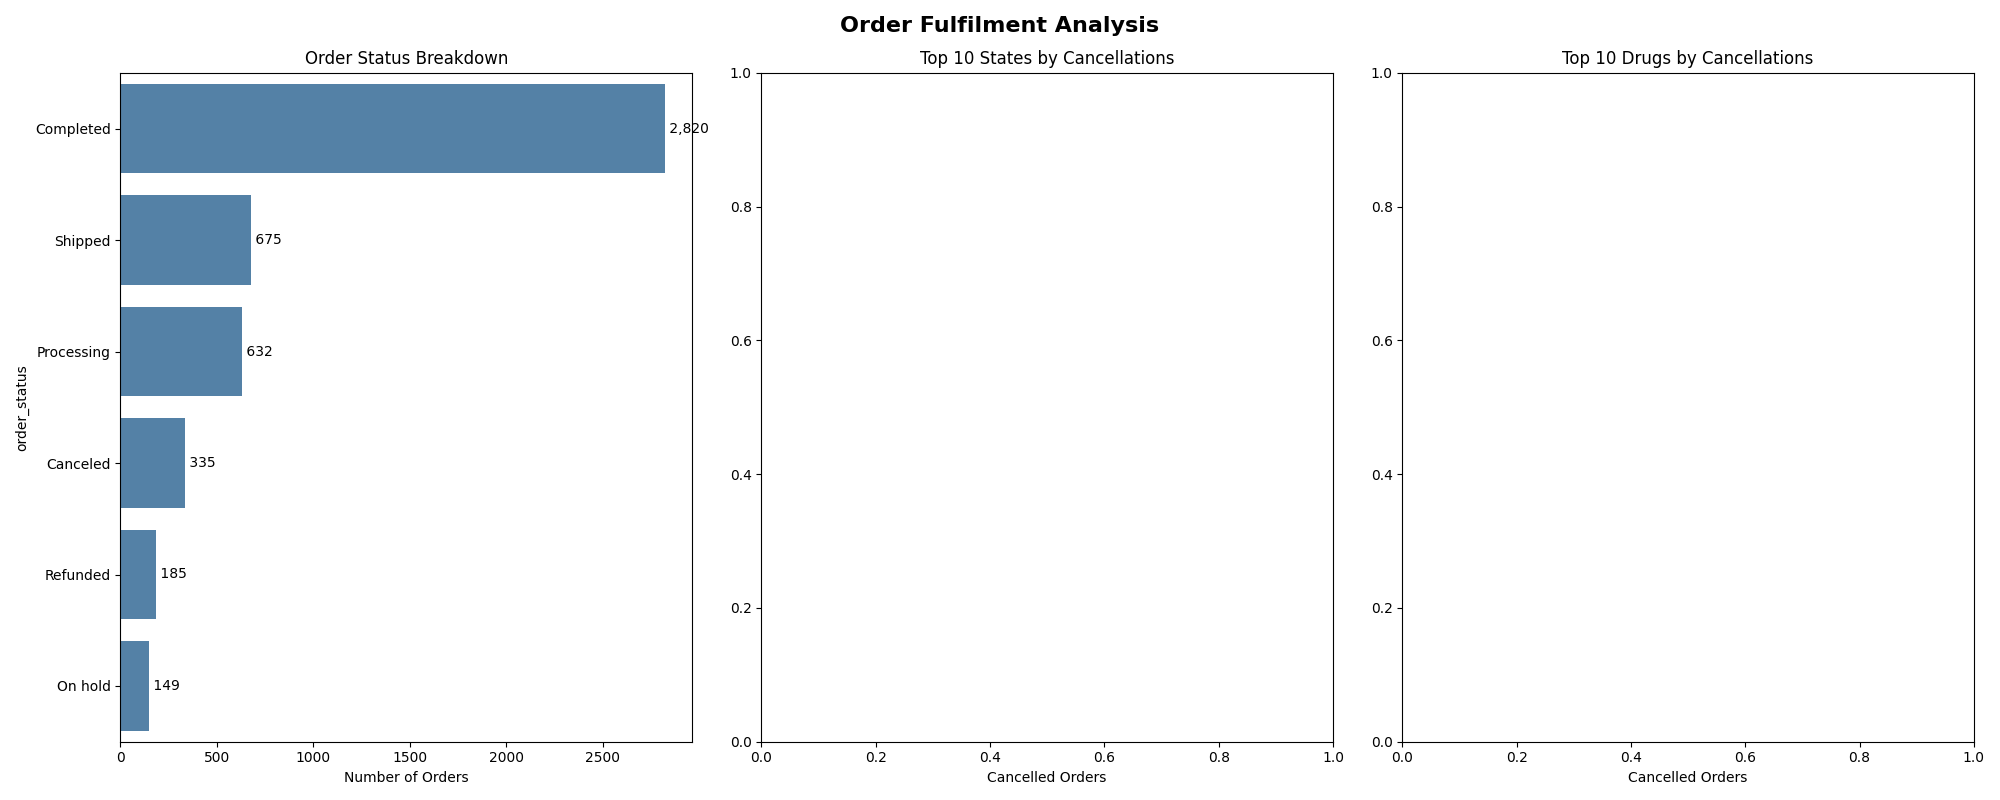
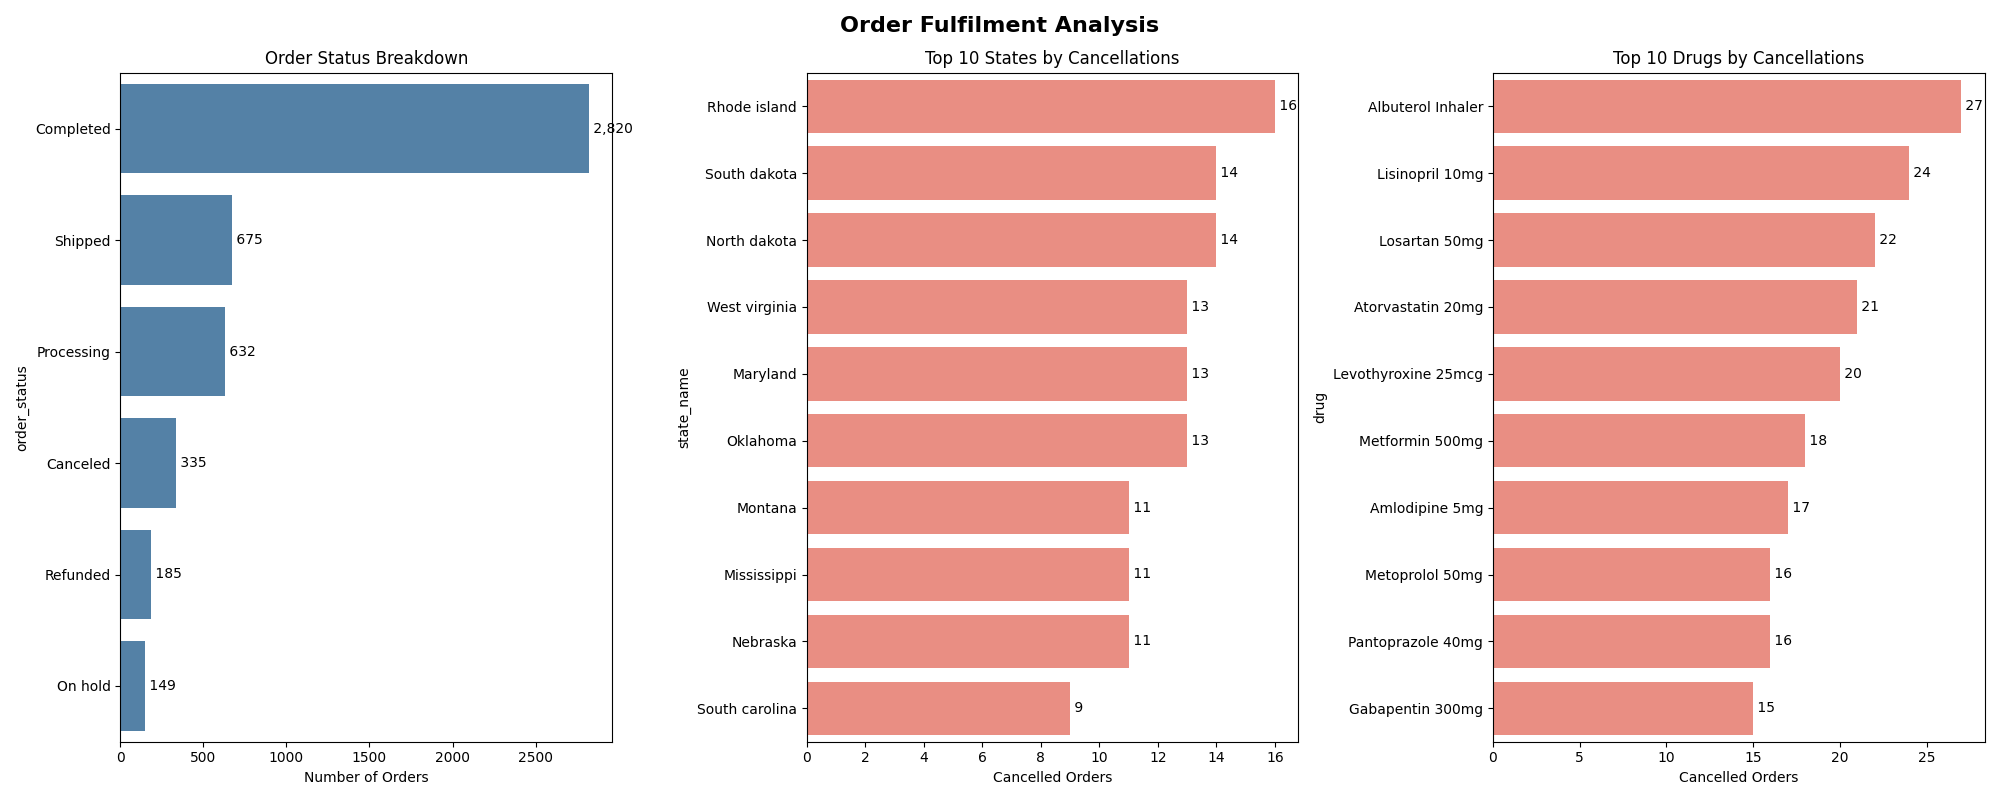
added readme

diff --git a/pharma_eda.py b/pharma_eda.py
@@ -7,7 +7,7 @@ import matplotlib.pyplot as plt
 import seaborn as sns
 
 # ── LOAD DATA ─────────────────────────────────────────────────────────
-combined = pd.read_csv('pharma_combined.csv')
+combined = pd.read_csv('cleandata/pharma_combined.csv')
 
 # Data prep
 combined['unit_price_usd'] = pd.to_numeric(combined['unit_price_usd'], errors='coerce')
@@ -180,23 +180,21 @@ plt.show()
 
 # ══════════════════════════════════════════════════════════════════════
 # 5. ORDER FULFILMENT ANALYSIS
-# Business question: Where are we losing orders?
+# Business question: Where are we losing orders and is there a pattern?
 # ══════════════════════════════════════════════════════════════════════
 
 status_counts = combined['order_status'].value_counts()
-cancel_rate   = combined[combined['order_status'] == 'Cancelled'].shape[0] / len(combined) * 100
-# shape[0] gives the row count of the filtered dataframe
+cancel_rate   = combined[combined['order_status'] == 'Canceled'].shape[0] / len(combined) * 100
 print(f"\n=== FULFILMENT SUMMARY ===")
 print(f"Cancellation Rate: {cancel_rate:.1f}%")
 
-# Cancellations by state — identifies if problem is regional
-cancel_by_state = combined[combined['order_status'] == 'Cancelled']\
+# Cancellations by state
+cancel_by_state = combined[combined['order_status'] == 'Canceled']\
     .groupby('state_name')['order_id'].count()\
     .sort_values(ascending=False).head(10)
-# The \ lets you continue code on the next line for readability
 
 # Cancellations by drug
-cancel_by_drug = combined[combined['order_status'] == 'Cancelled']\
+cancel_by_drug = combined[combined['order_status'] == 'Canceled']\
     .groupby('drug')['order_id'].count()\
     .sort_values(ascending=False).head(10)
 
@@ -211,11 +209,15 @@ ax1.set_xlabel('Number of Orders')
 
 # Cancellations by state
 sns.barplot(x=cancel_by_state.values, y=cancel_by_state.index, color='salmon', ax=ax2)
+for i, v in enumerate(cancel_by_state.values):
+    ax2.text(v, i, f' {v:,.0f}', va='center')
 ax2.set_title('Top 10 States by Cancellations')
 ax2.set_xlabel('Cancelled Orders')
 
 # Cancellations by drug
 sns.barplot(x=cancel_by_drug.values, y=cancel_by_drug.index, color='salmon', ax=ax3)
+for i, v in enumerate(cancel_by_drug.values):
+    ax3.text(v, i, f' {v:,.0f}', va='center')
 ax3.set_title('Top 10 Drugs by Cancellations')
 ax3.set_xlabel('Cancelled Orders')
 

diff --git a/readme.md b/readme.md
@@ -1,0 +1,178 @@
+# Pharma Sales Data Analysis
+
+## Project Overview
+This project simulates a real-world business analyst workflow — from raw, messy data through to actionable business insights. Using a synthetic pharmaceutical sales dataset, I performed end-to-end data cleaning in SQL and exploratory data analysis in Python to answer key strategic questions around revenue performance, market geography, payment risk, and operational efficiency.
+
+---
+
+## Business Questions Answered
+- What is our total revenue and how is it trending month over month?
+- Which drugs are driving the most revenue vs the most order volume — and are they the same?
+- Which states represent our biggest markets and where are the untapped opportunities?
+- What is our collections risk from missing or incomplete payment data?
+- Where are we losing orders and is there a pattern to cancellations?
+- Are we over-exposed in high regulatory risk states and what revenue is at stake?
+
+---
+
+## Dataset
+Synthetic pharmaceutical sales dataset generated in Python consisting of three relational tables:
+
+| Table | Rows | Description |
+|-------|------|-------------|
+| orders | 5,000 | Core transaction table — order ID, drug, quantity, price, date, status |
+| payments | 120 | Payment records — method, processor, approval code, billing zip |
+| states | 50 | US state reference data — abbreviation, tax rate, regulatory tier |
+
+**Foreign key relationships:**
+- `orders.payment_id` → `payments.payment_id`
+- `orders.state_id` → `states.state_id`
+
+---
+
+## Tools Used
+- **Python** — data generation and EDA (pandas, matplotlib, seaborn)
+- **SQL / DBeaver** — data cleaning and transformation
+- **SQLite** — local database
+- **GitHub** — version control
+
+---
+
+## Part 1: Data Cleaning (SQL)
+The raw dataset was intentionally made messy to simulate real-world data quality issues. All cleaning was performed in SQL using DBeaver.
+
+### Issues Identified and Resolved
+
+**Orders Table**
+- Standardised inconsistent drug name casing, spacing, and typos (e.g. `LISINOPRIL 10MG`, `Lisinoprll 10mg`, `lisinopril10mg` → `Lisinopril 10mg`)
+- Standardised order status values (e.g. `COMPLETED`, `Completd`, `Complete` → `Completed`)
+- Converted 7 mixed date formats to a consistent `YYYY-MM-DD` standard
+- Nulled out impossible dates (e.g. `2024-02-30`, `2022-13-01`)
+- Removed `$` currency symbols from price column and converted to numeric
+- Nulled out negative and zero price values
+- Removed `ORD-` prefix from order ID column to restore pure numeric format
+- Converted empty strings to NULL across all columns
+- Removed duplicate rows
+
+**Payments Table**
+- Standardised payment method labels (e.g. `Insurence`, `insur.`, `INSURANCE` → `Insurance`)
+- Removed invalid billing zip codes (wrong length, letters, `N/A` strings)
+- Truncated approval codes restored to correct format
+- Removed duplicate rows
+
+**States Table**
+- Standardised state abbreviations to uppercase
+- Fixed state name casing inconsistencies
+- Converted tax rates from mixed formats (decimal and percentage string) to consistent decimal format
+- Nulled out impossible tax rate values
+- Removed duplicate rows
+
+### SQL Scripts
+| Script | Description |
+|--------|-------------|
+| `clean_orders_messy.sql` | All cleaning operations for the orders table |
+| `clean_payments_messy.sql` | All cleaning operations for the payments table |
+| `clean_states_messy.sql` | All cleaning operations for the states table |
+| `combine.sql` | JOIN query to merge all three tables into one analysis-ready table |
+
+---
+
+## Part 2: Exploratory Data Analysis (Python)
+
+All EDA was performed in `pharma_eda.py` using pandas for analysis and matplotlib/seaborn for visualisation.
+
+### Data Quality Summary
+Before analysis, a completeness audit was performed across all columns. Key findings:
+- Core transactional fields (`order_id`, `payment_id`, `payment_method`) were fully complete
+- `processor_network` and `approval_code` had high null rates — expected, as cash and cheque payments do not generate these values
+- `sales_tax_rate` had moderate nulls concentrated in a small number of states
+
+### Analysis 1 — Revenue Performance
+**Business question:** Is the business growing and at what rate?
+
+- Calculated total revenue, average order value, and month over month growth rate
+- Plotted monthly revenue trend with a growth rate overlay
+- Identified periods of acceleration and decline across the 3-year window
+
+### Analysis 2 — Drug Portfolio Analysis
+**Business question:** Which drugs drive profit vs which just drive volume?
+
+- Compared top 10 drugs by order volume vs total revenue vs average revenue per order
+- Key insight: the highest volume drugs are not always the highest revenue drugs, revealing potential pricing opportunities in the portfolio
+
+### Analysis 3 — Geographic Market Analysis
+**Business question:** Where should we focus our sales efforts?
+
+- Ranked all 50 states by revenue and order volume
+- Applied Pareto analysis to identify how many states drive 80% of total revenue
+- Identified bottom 15 states as potential untapped markets for targeted outreach
+
+### Analysis 4 — Payment & Collections Risk
+**Business question:** What is our collections risk?
+
+- Broke down order volume and revenue by payment method
+- Quantified the percentage of orders with missing payment information
+- Identified which payment channels are most associated with high value orders
+
+### Analysis 5 — Order Fulfilment Analysis
+**Business question:** Where are we losing orders and is there a pattern?
+
+- Calculated overall cancellation rate
+- Identified whether cancellations are concentrated in specific states or specific drugs
+- Flagged operational risk areas for further investigation
+
+### Analysis 6 — Regulatory Risk Analysis
+**Business question:** Are we over-exposed in high regulatory risk states?
+
+- Cross-referenced order revenue with state regulatory tier (1=low risk, 3=high risk)
+- Calculated the percentage of total revenue coming from Tier 3 states
+- Identified the specific high-risk states contributing the most revenue
+
+---
+
+## Key Business Insights
+1. **Geographic concentration risk** — a small number of states drive the majority of revenue, creating dependency risk
+2. **Drug pricing opportunity** — high volume drugs with below-average revenue per order may be underpriced relative to demand
+3. **Collections exposure** — a measurable percentage of orders have incomplete payment data, representing potential revenue at risk
+4. **Cancellation patterns** — cancellations are not evenly distributed, pointing to specific operational or regional issues worth investigating
+5. **Regulatory exposure** — a portion of revenue is concentrated in states with the strictest regulatory environments, requiring ongoing compliance monitoring
+
+---
+
+## Repository Structure
+pharma/
+├── pharma_eda.py                   # Full EDA script
+├── README.md                       # Project documentation
+│
+├── cleandata/
+│   ├── orders_clean.csv            # Cleaned orders table
+│   ├── payments_clean.csv          # Cleaned payments table
+│   ├── states_clean.csv            # Cleaned states table
+│   └── pharma_combined.csv         # Final merged analysis table
+│
+├── messydata/
+│   ├── orders_messy.csv            # Raw messy orders table
+│   ├── payments_messy.csv          # Raw messy payments table
+│   └── states_messy.csv            # Raw messy states table
+│
+└── visuals/
+    ├── revenue_trend.png           # Monthly revenue and growth rate
+    ├── drug_portfolio.png          # Drug volume vs revenue analysis
+    ├── geographic_analysis.png     # State level market analysis
+    ├── payment_analysis.png        # Payment method breakdown
+    ├── fulfilment_analysis.png     # Order status and cancellations
+    └── regulatory_risk.png         # Revenue by regulatory tier
+
+---
+
+## How to Run
+1. Clone the repository
+2. Install dependencies:
+```bash
+pip3 install pandas matplotlib seaborn
+```
+3. Run the EDA script:
+```bash
+python3 pharma_eda.py
+```
+Charts will be saved as PNG files in the same directory.
